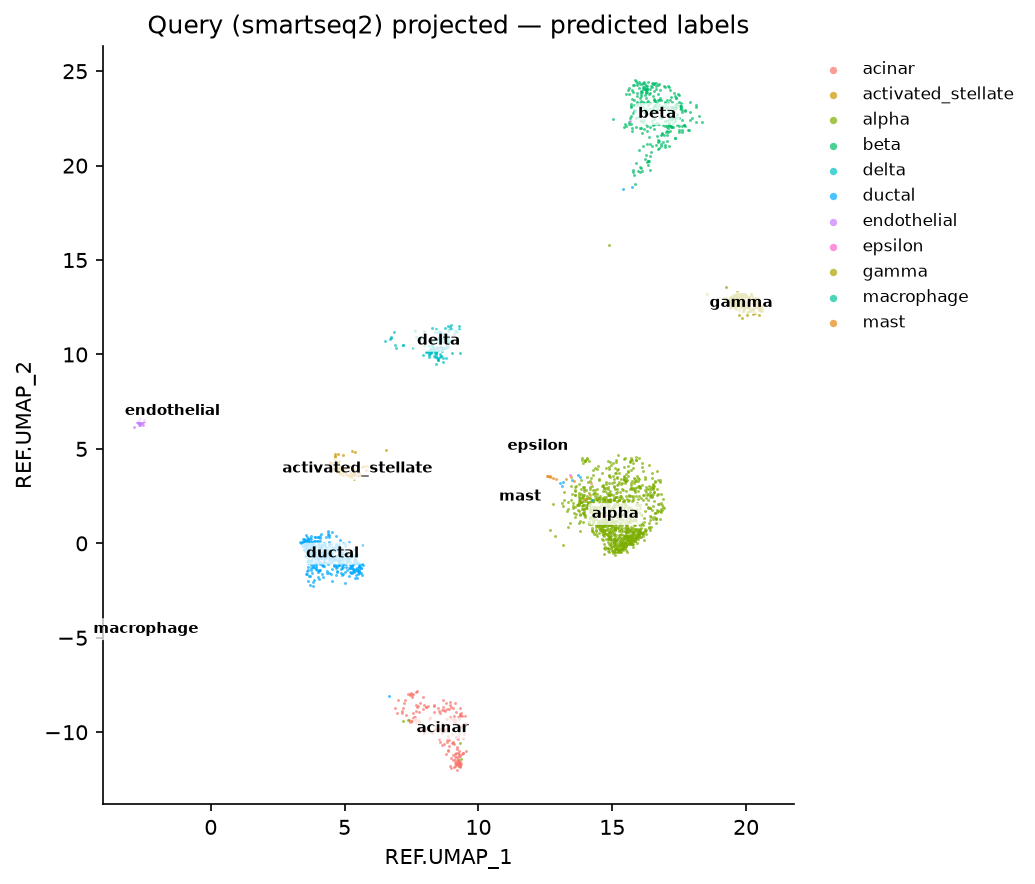
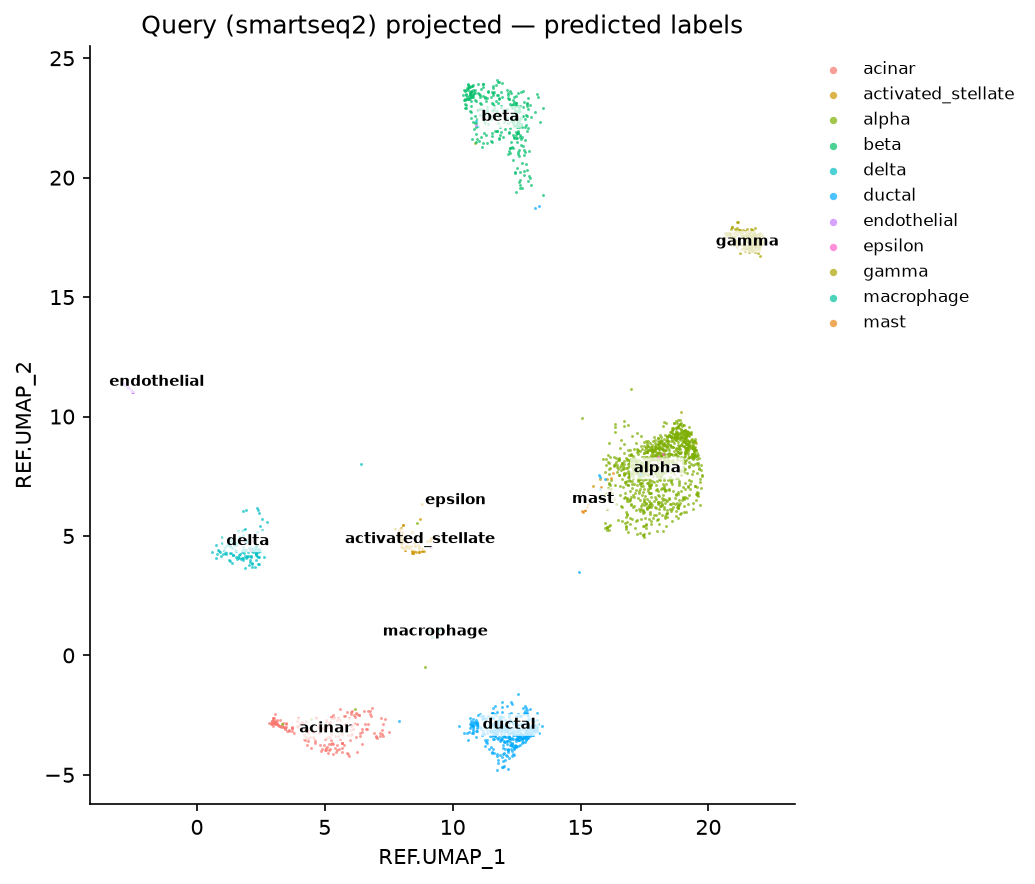
Re-verify the four tutorials whose figures had gone stale
The sctransform, mixscape, spatial and refmap figures were built between 4
and 18 July and never rebuilt, while fixes landed underneath them that change
what the pipeline produces -- `fix(hvf)` computing the mvp statistics Seurat's
way, `fix(neighbors)` matching Seurat's stored kNN/SNN graphs, and the anchors
and integration fixes. Those propagate through PCA, neighbours, clusters and
UMAP, so the committed figures were showing pre-fix output.

Re-run properly rather than just redrawn: Python tutorial, then R verify
against Seurat 5.5.1, then the figures, for each of the four. That order
matters -- the figures are drawn from both sides' handoff, and redrawing
without re-running R would have compared a fresh Python run against a
three-week-old R one.

Two of the four needed prose changes and two did not, which is the useful
part of the result.

**sctransform: nothing to change.** Every claim re-verified exactly --
Spearman 1.0000 on the regularized intercept and theta, 3,848 Poisson genes
with Jaccard 1.0000, 12 clusters under SCTransform against 11 under
LogNormalize, 87 of 3,000 variable features moved, 98 of the top 100 shared,
residual_mean 0.7147 against Pearson 0.9938. The figures had drifted while
the numbers held, because the report checks anchors that are still correct
and a UMAP image is sensitive to any change in cluster assignment.

**spatial: nothing to change either.** The composition test reproduces to
[…]

diff --git a/tutorials/refmap_vignette.md b/tutorials/refmap_vignette.md
@@ -168,8 +168,8 @@ predictions = transfer_data(anchors, refdata="celltype",
 </td></tr>
 </table>
 
-Both tools find a healthy anchor set on the shared HVG basis (truecell **3,551**
-anchors) and transfer with high confidence — mean `prediction.score.max` 0.986
+Both tools find a healthy anchor set on the shared HVG basis (truecell **3,561**
+anchors) and transfer with high confidence — mean `prediction.score.max` 0.988
 (truecell) vs 0.988 (Seurat).
 
 ---
@@ -182,7 +182,7 @@ matches the truth — read per cell type. The Truecell result:
 
 | cell type | support | recall ↑ |
 |-----------|---:|---:|
-| alpha | 1,008 | 0.987 |
+| alpha | 1,008 | 0.989 |
 | ductal | 444 | 0.996 |
 | beta | 308 | 0.990 |
 | gamma | 213 | 0.991 |
@@ -190,18 +190,18 @@ matches the truth — read per cell type. The Truecell result:
 | delta | 127 | 0.984 |
 | activated_stellate | 55 | 1.000 |
 | endothelial | 21 | 1.000 |
-| epsilon | 8 | 0.375 |
-| macrophage | 7 | 0.714 |
+| epsilon | 8 | 0.500 |
+| macrophage | 7 | 0.857 |
 | mast | 7 | 1.000 |
 | quiescent_stellate | 6 | 0.000 |
 | schwann | 2 | 0.000 |
-| **overall** | **2,394** | **0.985** |
+| **overall** | **2,394** | **0.986** |
 
-**2,357 of 2,394 query cells (98.5%) are annotated correctly.** Every abundant
+**2,361 of 2,394 query cells (98.6%) are annotated correctly.** Every abundant
 cell type is recovered at ≥98%; the whole error budget is the handful of **rare
 types** (epsilon, macrophage, quiescent_stellate, schwann) for which the
 2,285-cell single-technology reference simply carries too few examples to anchor
-reliably — the macro-averaged recall (0.77, every class weighted equally) is what
+reliably — the macro-averaged recall (0.79, every class weighted equally) is what
 exposes that tail. This is the honest limit of a small single-tech reference, not
 a defect: Seurat's transfer stumbles on exactly the same rare types.
 
@@ -238,14 +238,14 @@ a `predicted.id` from the same reference label set — the concordance is a plai
 
 | tool | accuracy vs truth ↑ | mean score |
 |------|---:|---:|
-| **truecell** | **0.9845** | 0.9857 |
+| **truecell** | **0.9862** | 0.9879 |
 | **Seurat R** | **0.9879** | 0.9875 |
 
-> **Label concordance — same `predicted.id` per cell: 0.9871 (2,363 / 2,394 query cells).**
+> **Label concordance — same `predicted.id` per cell: 0.9883 (2,366 / 2,394 query cells).**
 
-**truecell and Seurat annotate the query almost identically.** 2,363 of 2,394 query
-cells (98.71%) receive the *same* label from both tools, and each tool is ~98.5%
-accurate against the held-out truth — truecell 0.9845, Seurat 0.9879, a 0.3-point
+**truecell and Seurat annotate the query almost identically.** 2,366 of 2,394 query
+cells (98.83%) receive the *same* label from both tools, and each tool is ~98.6%
+accurate against the held-out truth — truecell 0.9862, Seurat 0.9879, a 0.2-point
 gap that is entirely the rare-type tail where a few cells tip between neighbours.
 The two tools even fail *together*: both recover epsilon poorly, both nearly
 perfect on the abundant types. This is the confirmation the initiative was built

diff --git a/tutorials/mixscape_vignette.md b/tutorials/mixscape_vignette.md
@@ -175,9 +175,9 @@ run_mixscape(obj, assay="PRTB", labels="gene",
         min_de_genes=5, iter_num=10,
         prtb_type="KO")
 obj.meta_data["mixscape_class.global"].value_counts()
-#  NP    13398
+#  NP    13401
 #  NT     2386
-#  KO     4945
+#  KO     4942
 ```
 
 </td></tr>
@@ -185,8 +185,8 @@ obj.meta_data["mixscape_class.global"].value_counts()
 
 | Global class | Truecell | R Seurat |
 |---|---:|---:|
-| KO | 4,945 | 5,107 |
-| NP | 13,398 | 13,236 |
+| KO | 4,942 | 5,107 |
+| NP | 13,401 | 13,236 |
 | NT | 2,386 | 2,386 |
 
 The **per-guide knockout rate** is the headline: how often the edit actually took.
@@ -198,10 +198,10 @@ original screen also measured protein.
 | gene | Truecell KO rate | R KO rate |    | gene | Truecell | R |
 |------|---:|---:|---|------|---:|---:|
 | STAT2  | 0.83 | 0.80 | | IRF1 | 0.57 | 0.68 |
-| JAK2   | 0.78 | 0.78 | | MYC  | 0.58 | 0.23 |
-| SMAD4  | 0.76 | 0.82 | | SPI1 | 0.52 | 0.44 |
+| JAK2   | 0.78 | 0.78 | | MYC  | 0.57 | 0.23 |
+| SMAD4  | 0.75 | 0.82 | | SPI1 | 0.52 | 0.44 |
 | STAT1  | 0.75 | 0.75 | | CUL3 | 0.34 | 0.38 |
-| IFNGR2 | 0.74 | 0.74 | | BRD4 | 0.32 | 0.45 |
+| IFNGR2 | 0.74 | 0.74 | | BRD4 | 0.31 | 0.45 |
 | IFNGR1 | 0.72 | 0.73 | | *(14 more)* | 0.00 | 0.00 |
 
 The **perturbation-score density** for `IFNGR2` is the diagnostic for *why*
@@ -263,23 +263,23 @@ verify script writes):
 
 | Comparison | Agreement |
 |---|---:|
-| **Mixscape** global class (KO/NP/NT)       | **97.45 %** |
-| **Mixscape** full class (`<gene> KO`/`NP`) | **97.45 %** |
+| **Mixscape** global class (KO/NP/NT)       | **97.52 %** |
+| **Mixscape** full class (`<gene> KO`/`NP`) | **97.52 %** |
 
 Mixscape global — Truecell (rows) × R (cols):
 
 |          | R KO | R NP | R NT |
 |---|---:|---:|---:|
-| **KO** | 4,762 |   183 |     0 |
-| **NP** |   345 | 13,053 |    0 |
+| **KO** | 4,767 |   175 |     0 |
+| **NP** |   340 | 13,061 |    0 |
 | **NT** |     0 |     0 | 2,386 |
 
-**Truecell reproduces Seurat to 97.45 %** — 528 of 20,729 cells differ — with the
+**Truecell reproduces Seurat to 97.52 %** — 515 of 20,729 cells differ — with the
 disagreement landing exactly where a mixture model is least certain. All 2,386 NT
 cells agree; all 14 zero-phenotype guides agree 100 %; the strong interferon-γ
-hits agree tightly (`STAT1` 98.6 %, `JAK2` 97.8 %, `IFNGR2` 97.7 %, `IFNGR1`
-96.8 %). The divergence concentrates in the **weak, boundary guides** — `MYC`
-(42 % of its cells differ), `SPI1` (29 %), `BRD4` (17 %), `CUL3` (14 %) — whose
+hits agree tightly (`STAT1` 98.4 %, `JAK2` 98.0 %, `IFNGR2` 97.4 %, `IFNGR1`
+97.1 %). The divergence concentrates in the **weak, boundary guides** — `MYC`
+(42 % of its cells differ), `SPI1` (33 %), `BRD4` (18 %), `CUL3` (14 %) — whose
 perturbation score sits close to the NT mode, so a small difference in the DE gene
 set or the EM initialisation flips a cell KO↔NP. That is the genuinely
 method-level residual, not a bug: scipy's `GaussianMixture` and R's `mixtools`

diff --git a/tutorials/xenium_spatial_tutorial.md b/tutorials/xenium_spatial_tutorial.md
@@ -10,7 +10,7 @@ section so it can be shared.
 > (the same section featured in
 > [Seurat's spatial vignette](https://satijalab.org/seurat/articles/spatial_vignette_2)).
 > **36,602 cells × 248 genes**, single FOV. Auto-downloads (~20 MB).  
-> **R reference:** Seurat v5 · **Python:** Truecell (branch `feature/spatial-seurat-parity`)
+> **R reference:** Seurat 5.5.1 · **Python:** Truecell v0.9.0
 
 This tutorial exercises the spatial Seurat-parity layer added to Truecell:
 `load_xenium` · `get_tissue_coordinates` · `image_dim_plot` ·

diff --git a/tutorials/sctransform_vignette.md b/tutorials/sctransform_vignette.md
@@ -11,7 +11,7 @@ vignette's point is that this removes technical effects more effectively, so —
 run over more PCs (dims 1:30) — it resolves finer immune subsets.
 
 > **Dataset:** 3k PBMCs — 10x Genomics (2016)
-> **Python:** Truecell v0.2.0
+> **Python:** Truecell v0.9.0
 
 ```bash
 python tutorials/pbmc3k_sctransform_tutorial.py   # printed validation + the model handoff
